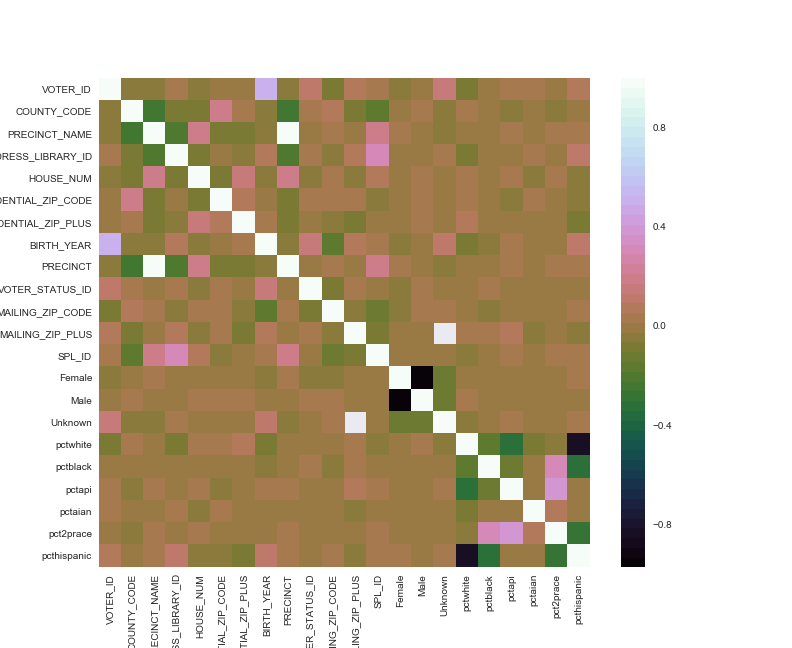
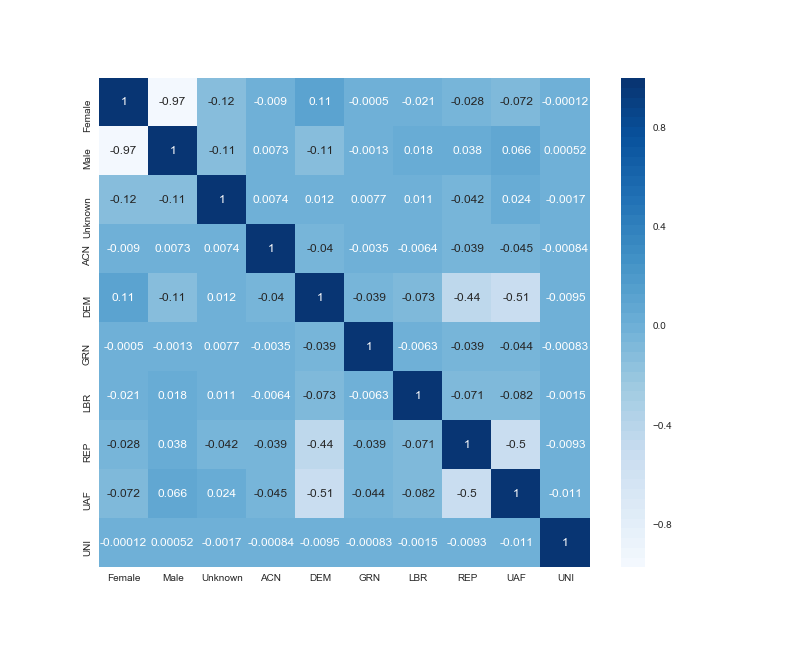
correlation with party and sex added

diff --git a/MachineLearning/01-hw1/voters.py b/MachineLearning/01-hw1/voters.py
@@ -21,21 +21,37 @@ def main():
     dfGender = pd.get_dummies(df['GENDER'])
     dfParty = pd.get_dummies(df['PARTY'])
     df = pd.concat([df, dfGender], axis=1, sort=False)
+    dfCorr = pd.concat([dfGender,dfParty], axis = 1, sort = False)
     
-    #tf = pd.concat([df,dfGender, dfParty], axis=1, sort=False)
-
-    print(df.columns)
-    fDemIndex = df[(df['GENDER'] == 'Female') & (df['PARTY'] == 'DEM')].index
     
-    #Searches for the index of the female dems and their precincts
-    fDem = df.loc[fDemIndex, 'PRECINCT']
-
+    writeHeatmap(dfCorr)
+    
+    
+    #Searches for the index of the female dems another argument would show a specified column or set of columns
+    fDem = df.loc[df[(df['GENDER'] == 'Female') & (df['PARTY'] == 'DEM')].index]
+    fRep = df.loc[df[(df['GENDER'] == 'Female') & (df['PARTY'] == 'REP')].index]
+    mDem = df.loc[df[(df['GENDER'] == 'Male') & (df['PARTY'] == 'DEM')].index]
+    mRep = df.loc[df[(df['GENDER'] == 'Male') & (df['PARTY'] == 'REP')].index]
+    uRep = df.loc[df[(df['GENDER'] == 'Unknown') & (df['PARTY'] == 'REP')].index]
+    uDem = df.loc[df[(df['GENDER'] == 'Unknown') & (df['PARTY'] == 'DEM')].index]
+    tMale= len(mRep)+len(mDem)
+    tFem = len(fDem) + len(fRep)
+    tUnk = len(uDem) + len(uRep)
+    pMaleRep = len(mRep)/tMale
+    pMaleDem = len(mDem)/tMale
+    pFemRep = len(fRep)/tFem
+    pFemDem = len(fDem)/tFem
+    pUnkRep = len(uRep)/tUnk
+    pUnkDem = len(uDem)/tUnk
+    
+    
     # this function uses a non-standard python library which I manually
     # installed from: https://pypi.org/project/ethnicolr/#description
     # Let me know if you can't figure out how to install from a
     # zip file.  You can comment out this line until you get it installed
     # This is just an example file anyway right?
     # 
+    #correlation of party and sex
     df = addEthnicityFields(df,'LAST_NAME')
 
     writeHeatmap(df)
@@ -90,8 +106,9 @@ def writeHeatmap(df, pngFilename='heatmap.png'):
 
     # Generate a custom diverging color map
     steps = 50
-    colormap = sns.color_palette("cubehelix", steps)
-    ax = sns.heatmap(corr, cmap=colormap)
+    #cubehelix is original
+    colormap = sns.color_palette("Blues", steps)
+    ax = sns.heatmap(corr, cmap=colormap, annot = True)
     
     
 
